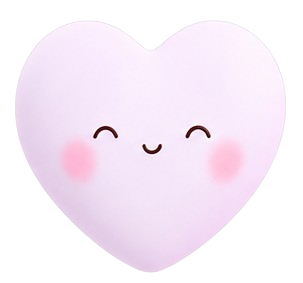
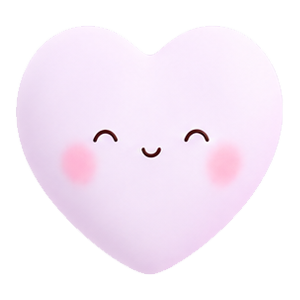
260626_4th_commit_pregimg

diff --git a/js/script.js b/js/script.js
@@ -643,84 +643,28 @@ document.addEventListener("click", function (e) {
       "#growth-stage-overlay .modal__close-btn",
     );
     var characterArea = document.getElementById("character-area");
+    function getCurrentGrowthStage() {
+      var currentWeek = getWeekNumber();
 
-    // 성장 단계 더미 데이터
-    var growthStagesData = [
-      {
-        stage: "초기 적응기",
-        weekRange: "4~11주",
-        week: 4,
-        dday: "D-170",
-        characterImage: "image/preg1.png",
-        description:
-          "호르몬 변화로 피로감과 메스꺼움이 생기는 시기입니다. 아이의 모습을 초음파로 처음 확인할 수 있어요.",
-        babyStatus:
-          "태아의 크기가 쌀알 정도에서 완두콩 크기로 자랍니다. 심장, 뇌, 척추 등 기본 구조가 형성돼요.",
-        momStatus:
-          "호르몬 변화로 감정 변화가 크고 피로감이 느껴집니다. 충분한 수면과 휴식이 중요해요.",
-      },
-      {
-        stage: "안정기",
-        weekRange: "12~19주",
-        week: 15,
-        dday: "D-135",
-        characterImage: "image/preg2.png",
-        description:
-          "아침 병증이 완화되고 아이의 움직임이 미세하게 느껴지는 시기입니다. 안정적인 성장 단계예요.",
-        babyStatus:
-          "얼굴의 윤곽이 뚜렷해지고 손가락 발가락이 나타납니다. 피부가 형성되기 시작해요.",
-        momStatus:
-          "에너지가 돌아오고 아이에 대한 실감이 생기기 시작합니다. 적절한 운동과 영양 섭취가 좋아요.",
-      },
-      {
-        stage: "태동기",
-        weekRange: "20~27주",
-        week: 22,
-        dday: "D-105",
-        characterImage: "image/preg3.png",
-        description:
-          "아이의 움직임이 왕발하게 되고 엄마와의 교감이 가장 깊어지는 소중한 시기입니다.",
-        babyStatus:
-          "눈을 뜨고 감을 수 있으며, 소리에 반응하여 태동을 보냅니다. 피부의 지방층이 생성되기 시작해요.",
-        momStatus:
-          "배가 눈에 띄게 불러오며 허리 통증이 생길 수 있습니다. 가벼운 스트레칭과 명상이 도움이 돼요.",
-      },
-      {
-        stage: "성장기",
-        weekRange: "28~35주",
-        week: 30,
-        dday: "D-70",
-        characterImage: "image/preg3.png",
-        description:
-          "아이가 급속도로 성장하고 엄마의 몸이 출산 준비를 시작하는 시기입니다.",
-        babyStatus:
-          "폐가 성숙해지고 뇌 발달이 활발해집니다. 아이의 움직임이 더욱 분명하고 규칙적이 돼요.",
-        momStatus:
-          "피로감이 증가하고 자주 피곤해집니다. 충분한 휴식과 가벼운 운동이 도움이 돼요.",
-      },
-      {
-        stage: "출산 준비기",
-        weekRange: "36주~출산",
-        week: 38,
-        dday: "D-14",
-        characterImage: "image/preg3.png",
-        description:
-          "출산이 임박한 시기입니다. 아이가 골반 쪽으로 내려오면서 호흡이 편해져요.",
-        babyStatus:
-          "면역 체계가 완성되고 장기 기능이 완전히 발달합니다. 출산 준비를 하고 있어요.",
-        momStatus:
-          "소화 불편함이 완화되고 출산에 대한 불안감이 커질 수 있습니다. 이는 매우 정상이에요.",
-      },
-    ];
+      var currentStage = _growthStagesData[0];
+
+      _growthStagesData.forEach(function (stage) {
+        if (currentWeek >= stage.week) {
+          currentStage = stage;
+        }
+    });
+    return currentStage;
+  }
 
     // Growth Stage Modal 열기
     function openGrowthStageModal(stageIndex) {
-      var stage = growthStagesData[stageIndex];
+      var stage = getCurrentGrowthStage();
       if (!stage) return;
 
       // 데이터 업데이트
+      
       document.getElementById("growth-stage-badge").textContent =
-        stage.week + "주차";
+        getWeekNumber() + "주차";
       document.getElementById("growth-stage-stage-name").textContent =
         stage.stage;
       document.getElementById("growth-stage-description").textContent =
@@ -731,14 +675,15 @@ document.addEventListener("click", function (e) {
         stage.momStatus;
       document.getElementById("growth-stage-char-img").src =
         stage.characterImage;
-      document.getElementById("growth-stage-dday-badge").textContent =
-        stage.dday;
 
       // 다음 단계 (있으면)
-      if (stageIndex < growthStagesData.length - 1) {
-        var nextStage = growthStagesData[stageIndex + 1];
+      if (stageIndex < _growthStagesData.length - 1) {
+        var nextStage = _growthStagesData[stageIndex + 1];
         document.getElementById("growth-stage-next-stage").textContent =
           nextStage.stage + " (" + nextStage.weekRange + ")";
+      }else {
+        document.getElementById("growth-stage-next-stage").textContent =
+          "마지막 성장 단계입니다.";
       }
 
       // 모달 열기
@@ -750,10 +695,23 @@ document.addEventListener("click", function (e) {
       growthStageOverlay.classList.remove("active");
     }
 
-    // 캐릭터 영역 클릭 → 모달 열기 (현재 22주차 = index 2)
+    // 캐릭터 영역 클릭 → 모달 열기 (현재 주차 기반)
     if (characterArea) {
       characterArea.addEventListener("click", function () {
-        openGrowthStageModal(2);
+        var currentWeek = parseInt(getWeekNumber());
+        var stageIndex = 0;
+
+        if (currentWeek >= 12 && currentWeek < 20) {
+          stageIndex = 1;
+        } else if (currentWeek >= 20 && currentWeek < 28) {
+          stageIndex = 2;
+        } else if (currentWeek >= 28 && currentWeek < 36) {
+          stageIndex = 3;
+        } else if (currentWeek >= 36) {
+          stageIndex = 4;
+        }
+
+        openGrowthStageModal(stageIndex);
       });
     }
 
@@ -1463,6 +1421,68 @@ var _currentUser = null;
 var _currentChild = null;
 var _todakMissions = [];
 var _missionCompletions = [];
+var _growthStagesData = [
+  {
+    stage: "초기 적응기",
+    weekRange: "1~11주",
+    week: 4,
+    characterImage: "image/preg1.png",
+    description:
+      "호르몬 변화로 피로감과 메스꺼움이 생기는 시기입니다. 아이의 모습을 초음파로 처음 확인할 수 있어요.",
+    babyStatus:
+      "태아의 크기가 쌀알 정도에서 완두콩 크기로 자랍니다. 심장, 뇌, 척추 등 기본 구조가 형성돼요.",
+    momStatus:
+      "호르몬 변화로 감정 변화가 크고 피로감이 느껴집니다. 충분한 수면과 휴식이 중요해요.",
+  },
+  {
+    stage: "안정기",
+    weekRange: "12~19주",
+    week: 11,
+    characterImage: "image/preg2.png",
+    description:
+      "아침 병증이 완화되고 아이의 움직임이 미세하게 느껴지는 시기입니다. 안정적인 성장 단계예요.",
+    babyStatus:
+      "얼굴의 윤곽이 뚜렷해지고 손가락 발가락이 나타납니다. 피부가 형성되기 시작해요.",
+    momStatus:
+      "에너지가 돌아오고 아이에 대한 실감이 생기기 시작합니다. 적절한 운동과 영양 섭취가 좋아요.",
+  },
+  {
+    stage: "태동기",
+    weekRange: "20~27주",
+    week: 20,
+    characterImage: "image/preg3.png",
+    description:
+      "아이의 움직임이 왕발하게 되고 엄마와의 교감이 가장 깊어지는 소중한 시기입니다.",
+    babyStatus:
+      "눈을 뜨고 감을 수 있으며, 소리에 반응하여 태동을 보냅니다. 피부의 지방층이 생성되기 시작해요.",
+    momStatus:
+      "배가 눈에 띄게 불러오며 허리 통증이 생길 수 있습니다. 가벼운 스트레칭과 명상이 도움이 돼요.",
+  },
+  {
+    stage: "성장기",
+    weekRange: "28~35주",
+    week: 28,
+    characterImage: "image/preg4.png",
+    description:
+      "아이가 급속도로 성장하고 엄마의 몸이 출산 준비를 시작하는 시기입니다.",
+    babyStatus:
+      "폐가 성숙해지고 뇌 발달이 활발해집니다. 아이의 움직임이 더욱 분명하고 규칙적이 돼요.",
+    momStatus:
+      "피로감이 증가하고 자주 피곤해집니다. 충분한 휴식과 가벼운 운동이 도움이 돼요.",
+  },
+  {
+    stage: "출산 준비기",
+    weekRange: "36주~출산",
+    week: 36,
+    characterImage: "image/preg5.png",
+    description:
+      "출산이 임박한 시기입니다. 아이가 골반 쪽으로 내려오면서 호흡이 편해져요.",
+    babyStatus:
+      "면역 체계가 완성되고 장기 기능이 완전히 발달합니다. 출산 준비를 하고 있어요.",
+    momStatus:
+      "소화 불편함이 완화되고 출산에 대한 불안감이 커질 수 있습니다. 이는 매우 정상이에요.",
+  },
+];
 var _weeklyGuides = [];
 var _guideContents = [];
 var _growthRecords = [];
@@ -1999,6 +2019,27 @@ function updateHomeDisplay() {
   if (headerDday) headerDday.textContent = dday;
   if (leftCardValue) leftCardValue.textContent = getWeekNumber();
   if (stageInfoText) stageInfoText.textContent = getWeekNumber() + "주차: " + getStageInfo();
+
+  if (!_isBirthMode) {
+    var currentWeek = parseInt(getWeekNumber());
+    var stageIndex = 0;
+
+    if (currentWeek >= 12 && currentWeek < 20) {
+      stageIndex = 1;
+    } else if (currentWeek >= 20 && currentWeek < 28) {
+      stageIndex = 2;
+    } else if (currentWeek >= 28 && currentWeek < 36) {
+      stageIndex = 3;
+    } else if (currentWeek >= 36) {
+      stageIndex = 4;
+    }
+
+    var stage = _growthStagesData[stageIndex];
+    var characterImage = document.getElementById("character-image");
+    if (characterImage && stage) {
+      characterImage.src = stage.characterImage;
+    }
+  }
 }
 
 function calculateDday() {

diff --git a/index.html b/index.html
@@ -943,7 +943,6 @@
                     </svg>
                     <h4 class="growth-stage-next-title">다음 단계 예고</h4>
                   </div>
-                  <div class="growth-stage-dday-badge" id="growth-stage-dday-badge">D-45</div>
                 </div>
                 <p class="growth-stage-info-text growth-stage-next-stage" id="growth-stage-next-stage">
                   폭증 성장기 (28주~)